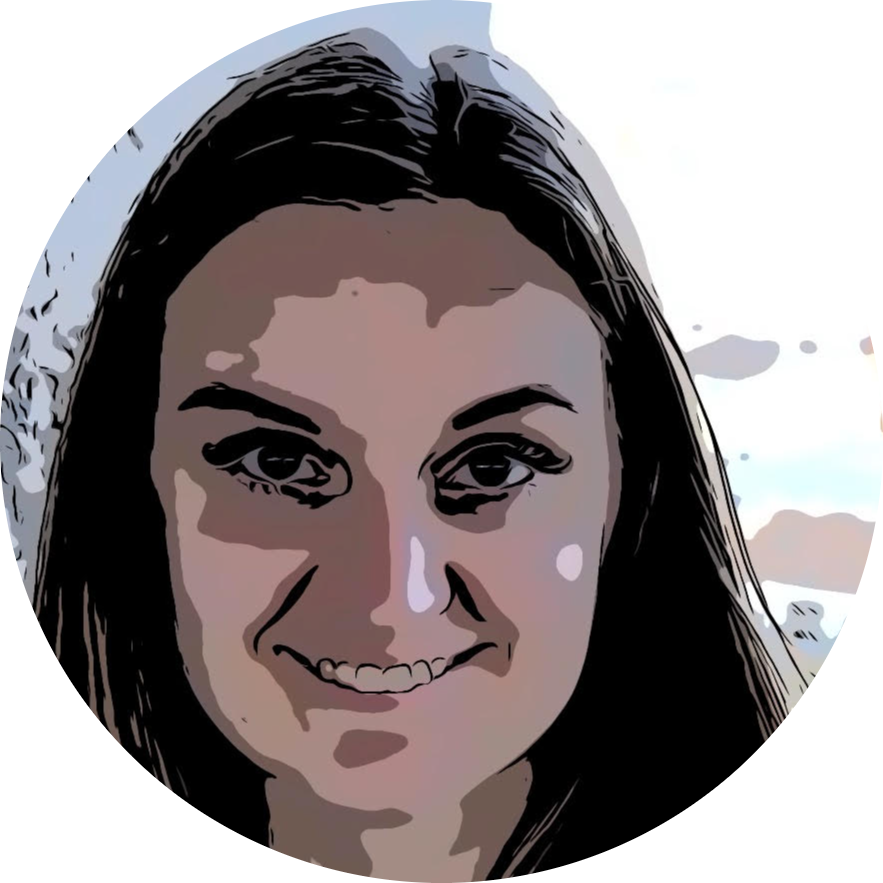
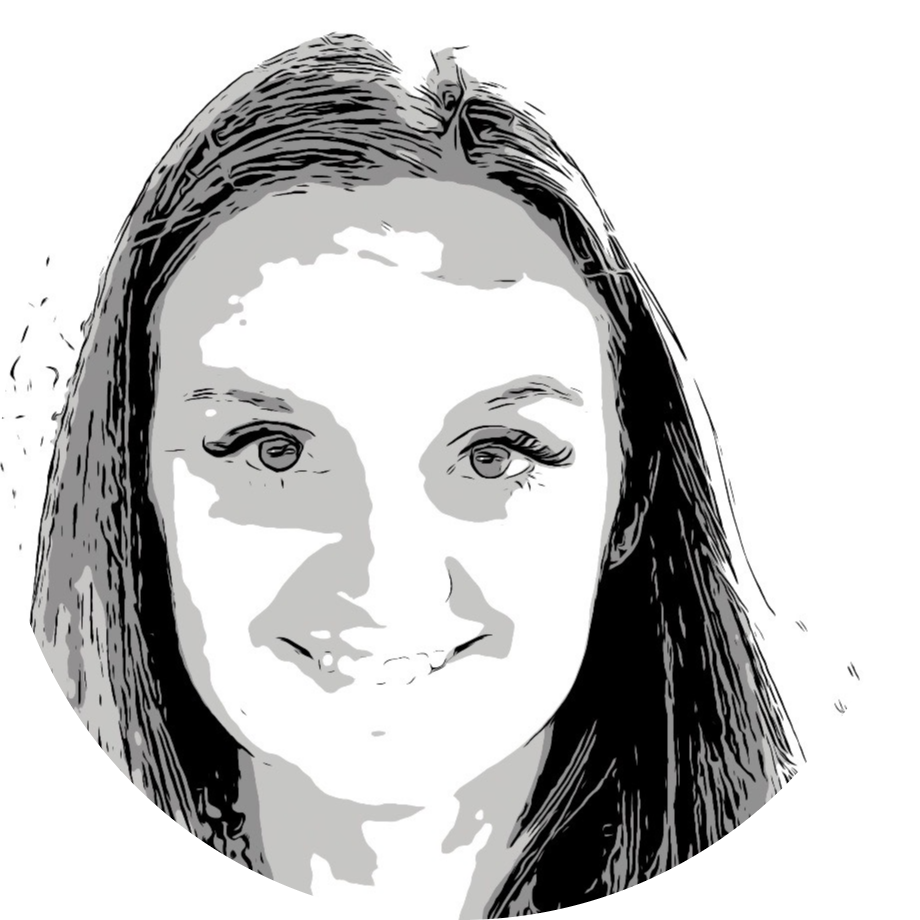
Add files via upload
updated profile pic
changed spacing

diff --git a/index.html b/index.html
@@ -43,13 +43,16 @@
     <div id="jumbotron1" class="jumbotron jumbotron-fluid">
         <div class="container">
             <h1 class="display-4"><b>Trainee Web Developer</b></h1>
+            <br>
             <p class="lead">My name is Barbora Kaminskas. I am currently training to become a web developer.</p>
         </div>
         <div>
             <img id="profile" src="profile-modified.png" alt="my profile picture">
         </div>
 
-        <div class="row">
+        <!--little gallery
+
+        <div id="icons" class="row">
             <div class="col-lg-3 mb-3 mb-lg-0">
                 <img src="keyboard-regular.svg" alt="keyboard">
             </div>
@@ -65,7 +68,31 @@
             <div class="col-lg-3 mb-3 mb-lg-0">
                 <img src="power-off-solid.svg" alt="power off button">
             </div>
-        </div>
+        </div>-->
+        <div id="icons" class="container">
+          
+            <div class="row text-center text-lg-start">
+          
+              <div class="col-lg-3 col-md-4 col-6">
+                <a class="d-block mb-4 h-100">
+                  <img class="img-fluid " src="keyboard-regular.svg" alt="">
+                </a>
+              </div>
+              <div class="col-lg-3 col-md-4 col-6">
+                <a  class="d-block mb-4 h-100">
+                  <img class="img-fluid " src="laptop-code-solid.svg" alt="">
+                </a>
+              </div>
+              <div class="col-lg-3 col-md-4 col-6">
+                <a  class="d-block mb-4 h-100">
+                  <img class="img-fluid " src="hdd-regular.svg" alt="">
+                </a>
+              </div>
+              <div class="col-lg-3 col-md-4 col-6">
+                <a  class="d-block mb-4 h-100">
+                  <img class="img-fluid " src="power-off-solid.svg" alt="">
+                </a>
+              </div>
 
     </div>
 
@@ -82,7 +109,8 @@
 
                 <img src="quiz.jpg" class="w-100 shadow-1-strong rounded mb-4" alt="quiz image" />
                 <div class="overlay w-100 shadow-1-strong rounded mb-4">
-                    <div class="text"><a href="projects/week2-project/index.html" target="blank">JavaScript Quiz</a></div>
+                    <div class="text"><a href="https://bayakami.github.io/week2-project/" target="blank">JavaScript Quiz</a>
+                    </div>
                 </div>
 
             </div>
@@ -90,20 +118,23 @@
             <div class="col-lg-4 mb-4 mb-lg-0 boxcont">
                 <img src="text-game.jpg" class="w-100 shadow-1-strong rounded mb-4" alt="vintage games" />
                 <div class="overlay w-100 shadow-1-strong rounded mb-4">
-                    <div class="text"><a href="projects/Week-3-OOP-Game/index.html" target="blank">Text Adventure Game</a></div>
+                    <div class="text"><a href="https://bayakami.github.io/week-3-OOP-game/" target="blank">Text Adventure
+                            Game</a></div>
                 </div>
             </div>
 
             <div class="col-lg-4 mb-4 mb-lg-0 boxcont">
                 <img src="cipher.jpg" class="w-100 shadow-1-strong rounded mb-4" alt="encoding machine" />
                 <div class="overlay w-100 shadow-1-strong rounded mb-4">
-                    <div class="text"><a href="projects/Week-4-Project-Ceaser/index.html" target="blank">Caeser Cipher</a></div>
+                    <div class="text"><a href="https://bayakami.github.io/Week-4-Project-Ceaser/" target="blank">Caeser
+                            Cipher</a></div>
 
                 </div>
             </div>
         </div>
     </div>
 
+    <!--buttons with links-->
     <div id="jumbotron3" class="jumbotron jumbotron-fluid">
         <div class="container">
             <h1 class="display-4"><b>More about me</b></h1>

diff --git a/style.css b/style.css
@@ -5,13 +5,18 @@ body,body * {
 
 #nav {
     margin-top: 0px;
+    margin-bottom: 50px;
 }
 
 #profile {
-    max-width: 20%;
+    max-width: 15%;
     height: auto;
     display: block;
-    margin: 50px auto 50px auto;
+    margin: 50px auto 80px auto;
+}
+
+.img-fluid {
+    width: 50%;
 }
 #jumbotron1 {
     min-height: 500px;
